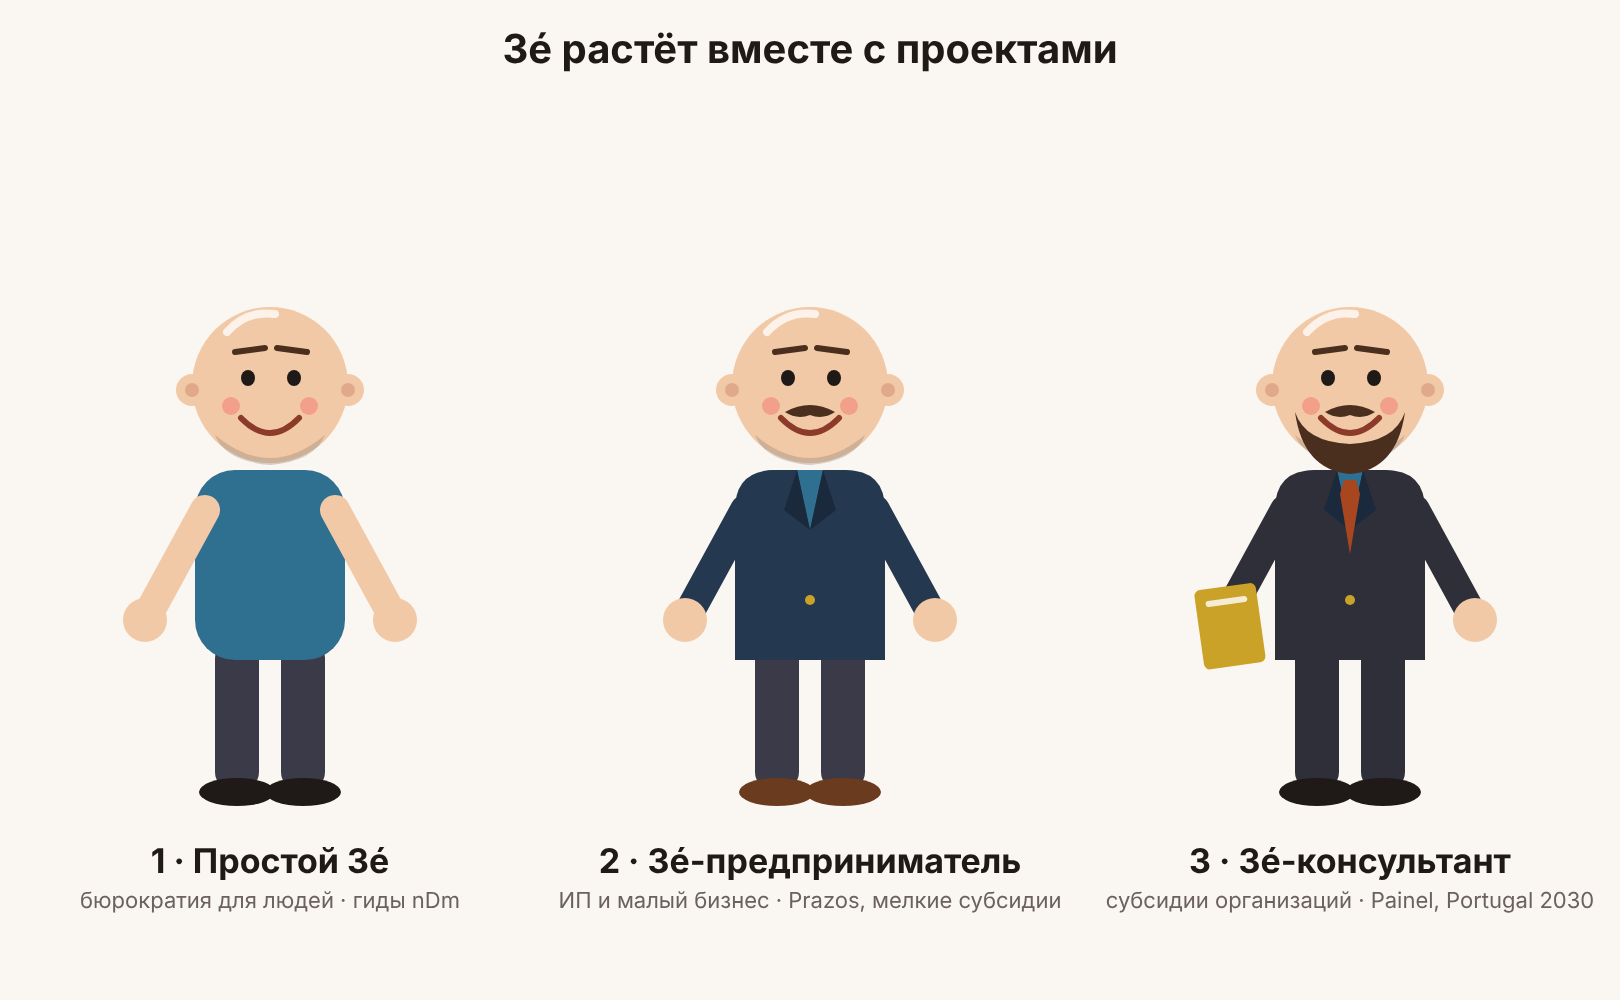
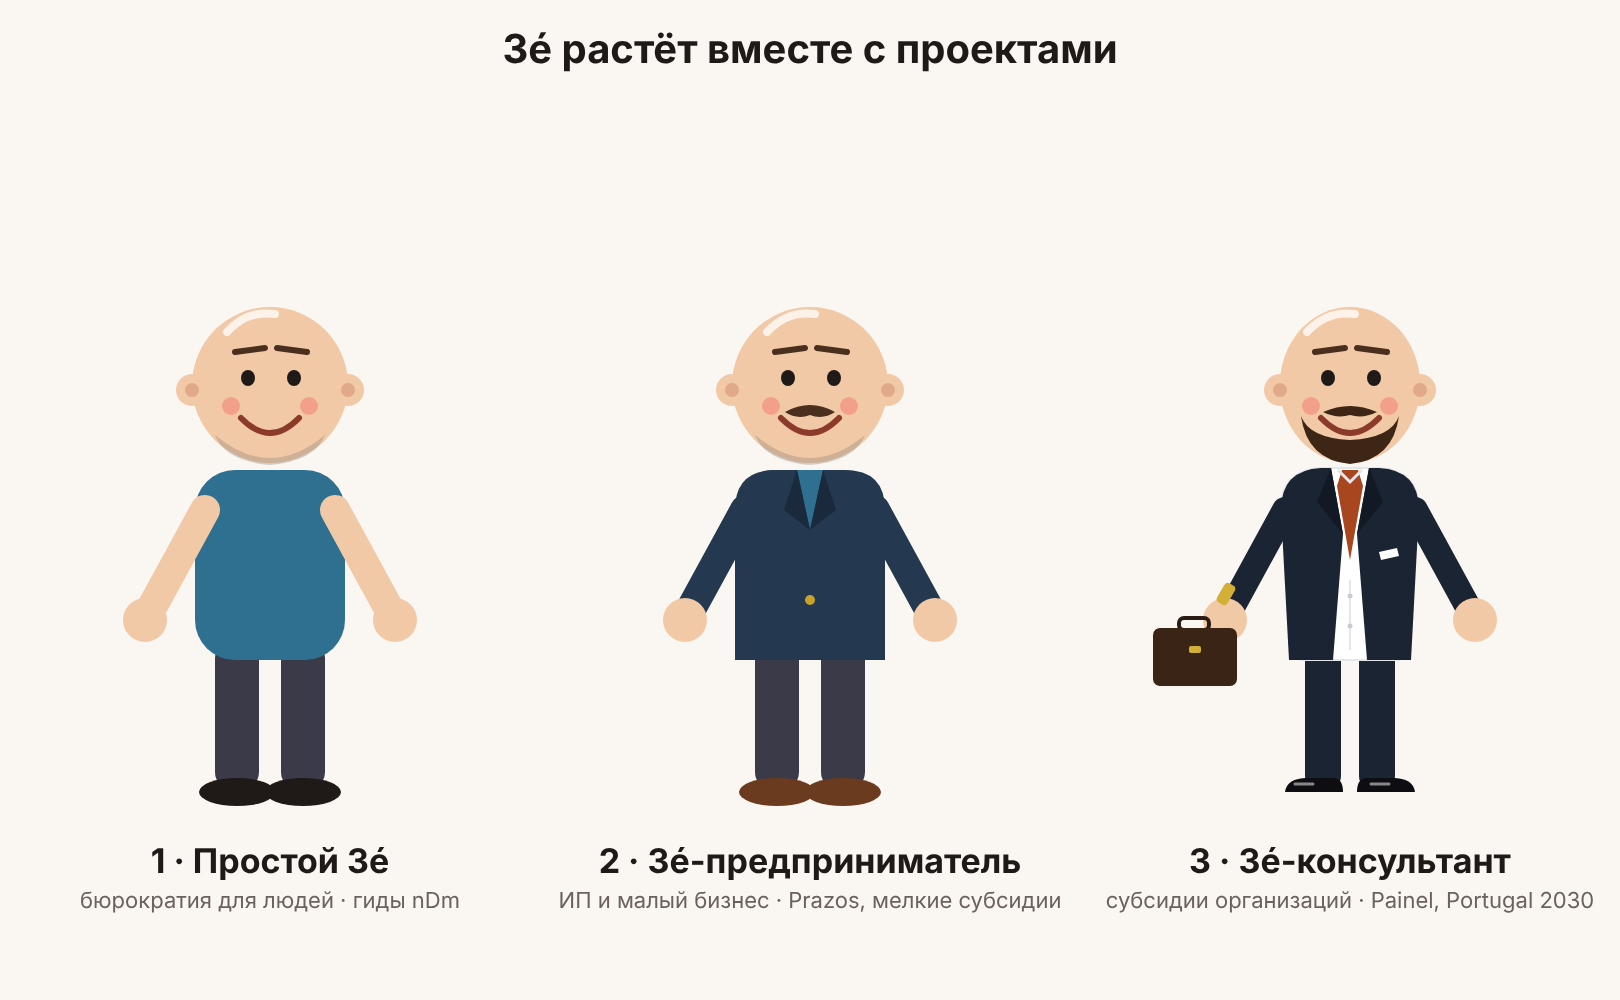
media/_ze: уровень 3 — Зé-банкир (похудел, белая рубашка, приталенный костюм, часы, кейс)
Claude-Session: https://claude.ai/code/session_01VKHYpiBB6nGXYyFz8gADSN

Changed region(s): [[0.7099, 0.341, 0.8951, 0.806]]

diff --git a/_src/media/_ze/looks.html b/_src/media/_ze/looks.html
@@ -48,26 +48,67 @@ txt(puff,282,404,'?',{'font-size':30,fill:'var(--acc)','font-weight':700});
 
 
 
+// Гардероб Зé: уровень образа по уровню проекта (принято 08.11.2026, паспорт Зé в Notion).
+// Вставлять в scene.html ПОСЛЕ блока «hero Zé» (нужны переменные manRoot, legs, armL, armR) и вызвать zeLook(N).
+// 1 — Простой Зé: рубашка #2F6F8F, без растительности (бюрократия для людей, гиды nDm).
+// 2 — Зé-предприниматель: тёмно-синий блейзер, аккуратные усы, коричневые туфли (ИП, малый бизнес, Prazos).
+// 3 — Зé-консультант / банкир: похудел и подкачался, белая рубашка, приталенный костюм, часы, кейс
+//     (субсидии организаций: Painel de Apoios, Portugal 2030, Funcionamento).
+function zeLook(level){
+  if(level<2) return;
+  if(level>=3) return zeBanker();
+  const JK='#24384F';
+  const jk=el('g',{},manRoot); manRoot.insertBefore(jk,armL);
+  el('path',{d:'M140 470 q0 -40 40 -40 h22 l13 60 l13 -60 h22 q40 0 40 40 v150 h-150z',fill:JK},jk);
+  el('path',{d:'M202 430 l13 60 l-26 -20z M228 430 l-13 60 l26 -20z',fill:'#1A2A3C'},jk);
+  el('circle',{cx:215,cy:560,r:5,fill:'#C9A227'},jk);
+  armL.querySelector('path').setAttribute('stroke',JK); armR.querySelector('path').setAttribute('stroke',JK);
+  el('path',{d:'M190 372 q25 -14 50 0 q-12 8 -25 3 q-13 5 -25 -3z',fill:'#4A2E1E'},manRoot);   // усы
+  legs.querySelectorAll('ellipse').forEach(e=>e.setAttribute('fill','#6B3B1F'));             // коричневые туфли
+}
+// 3 — Зé-консультант / банкир: похудел и подкачался (V-силуэт, без второго подбородка),
+// белая рубашка, приталенный тёмно-синий костюм, галстук цвета акцента, платок в кармане,
+// золотые часы, короткая ухоженная борода, чёрные лакированные туфли, тонкий кейс.
+function zeBanker(){
+  const SUIT='#1B2433', SUIT2='#121925';
+  // убрать «второй подбородок» и старое туловище
+  manRoot.querySelectorAll('path').forEach(p=>{if(p.getAttribute('opacity')==='0.35'||p.getAttribute('opacity')==='.35')p.remove()});
+  manRoot.querySelectorAll('rect').forEach(r=>{if(r.getAttribute('fill')==='var(--teal)')r.remove()});
+  // ноги стройнее, костюмные брюки, лакированные туфли
+  legs.innerHTML='';
+  el('rect',{x:170,y:600,width:36,height:150,rx:14,fill:SUIT},legs); el('rect',{x:224,y:600,width:36,height:150,rx:14,fill:SUIT},legs);
+  el('path',{d:'M150 752 q2 -14 22 -14 h26 q10 0 10 14z M222 752 q0 -14 10 -14 h26 q20 0 22 14z',fill:'#0E0E12'},legs);
+  el('path',{d:'M160 744 h18 M236 744 h18',stroke:'#fff','stroke-width':3,'stroke-linecap':'round',opacity:.5},legs);
+  const body=el('g',{},manRoot); manRoot.insertBefore(body,armL);
+  // белая рубашка, V-силуэт: широкие плечи, узкая талия
+  el('path',{d:'M146 470 q0 -40 40 -42 h58 q40 2 40 42 l-20 150 h-98z',fill:'#FFFFFF',stroke:'#E3E6EA','stroke-width':2},body);
+  // пиджак: две полы, открытая грудь
+  el('path',{d:'M146 470 q0 -40 40 -42 h10 l12 66 l-10 126 h-44z',fill:SUIT},body);
+  el('path',{d:'M284 470 q0 -40 -40 -42 h-10 l-12 66 l10 126 h44z',fill:SUIT},body);
+  el('path',{d:'M196 428 l12 66 l-26 -32z M234 428 l-12 66 l26 -32z',fill:SUIT2},body);          // лацканы
+  el('path',{d:'M215 540 v70',stroke:'#E3E6EA','stroke-width':2},body); el('circle',{cx:215,cy:556,r:2.5,fill:'#C9CDD3'},body); el('circle',{cx:215,cy:586,r:2.5,fill:'#C9CDD3'},body); // пуговицы рубашки
+  el('path',{d:'M207 430 h16 l5 16 l-13 74 l-13 -74z',fill:'var(--acc)'},body);                  // галстук
+  el('path',{d:'M203 430 l12 12 l12 -12',fill:'none',stroke:'#E3E6EA','stroke-width':3},body);  // воротник
+  el('path',{d:'M244 512 l18 -4 l2 8 l-18 4z',fill:'#FFFFFF'},body);                             // платок в кармане
+  // лицо стройнее: голова чуть уже, уши ближе
+  manRoot.querySelectorAll('circle').forEach(c=>{const cx=+c.getAttribute('cx'),cy=+c.getAttribute('cy'),r=+c.getAttribute('r');
+    if(cx===215&&cy===345&&r===78)c.setAttribute('transform','translate(215 345) scale(0.9 1) translate(-215 -345)');
+    if(cy===350&&(cx===137||cx===293))c.setAttribute('cx',cx===137?145:285);});
+  // руки в рукавах костюма, тоньше; золотые часы на левом запястье
+  [armL,armR].forEach(a=>{const p=a.querySelector('path');p.setAttribute('stroke',SUIT);p.setAttribute('stroke-width',26);});
+  el('rect',{x:80,y:548,width:22,height:12,rx:4,fill:'#D4AF37',transform:'rotate(-60 91 554)'},armL);
+  // короткая ухоженная борода + усы
+  el('path',{d:'M166 376 q6 44 49 48 q43 -4 49 -48 q-8 22 -49 24 q-41 -2 -49 -24z',fill:'#3E2617'},manRoot);
+  el('path',{d:'M188 372 q27 -12 54 0 q-14 7 -27 3 q-13 4 -27 -3z',fill:'#3E2617'},manRoot);
+  // тонкий кожаный кейс
+  const bc=el('g',{transform:'translate(58 584)'},armL);
+  el('rect',{x:-14,y:-6,width:30,height:12,rx:5,fill:'none',stroke:'#2A1C14','stroke-width':4},bc);
+  el('rect',{x:-40,y:4,width:84,height:58,rx:7,fill:'#3A2416'},bc);
+  el('rect',{x:-4,y:22,width:12,height:7,rx:2,fill:'#D4AF37'},bc);
+}
+
  mouth.setAttribute('d','M186 378 q29 30 58 0'); cheekL.setAttribute('opacity',1); cheekR.setAttribute('opacity',1);
- if(level>=2){ // тёмно-синий блейзер поверх рубашки, лацканы, коричневые туфли, аккуратные усы
-   const jk=el('g',{},manRoot); manRoot.insertBefore(jk,armL);
-   el('path',{d:'M140 470 q0 -40 40 -40 h22 l13 60 l13 -60 h22 q40 0 40 40 v150 h-150z',fill:'#24384F'},jk);
-   el('path',{d:'M202 430 l13 60 l-26 -20z M228 430 l-13 60 l26 -20z',fill:'#1A2A3C'},jk);
-   el('circle',{cx:215,cy:560,r:5,fill:'#C9A227'},jk);
-   el('path',{d:'M190 372 q25 -14 50 0 q-12 8 -25 3 q-13 5 -25 -3z',fill:'#4A2E1E'},manRoot);
-   legs.querySelectorAll('ellipse').forEach(e=>e.setAttribute('fill','#6B3B1F'));
-   armL.querySelector('path').setAttribute('stroke','#24384F'); armR.querySelector('path').setAttribute('stroke','#24384F');
- }
- if(level>=3){ // костюм графит, галстук, бородка из барбершопа, папка с документами
-   manRoot.querySelectorAll('path').forEach(p=>{if(p.getAttribute('fill')==='#24384F')p.setAttribute('fill','#2E2F38')});
-   armL.querySelector('path').setAttribute('stroke','#2E2F38'); armR.querySelector('path').setAttribute('stroke','#2E2F38');
-   legs.querySelectorAll('rect').forEach(e=>e.setAttribute('fill','#2E2F38'));
-   legs.querySelectorAll('ellipse').forEach(e=>e.setAttribute('fill','#1F1A17'));
-   el('path',{d:'M209 440 h12 l4 14 l-10 60 l-10 -60z',fill:'var(--acc)'},manRoot);
-   el('path',{d:'M160 372 q8 58 55 62 q47 -4 55 -62 q-10 30 -55 32 q-45 -2 -55 -32z',fill:'#4A2E1E'},manRoot);
-   const fol=el('g',{transform:'translate(66 560) rotate(-8)'},armL);
-   el('rect',{x:-6,y:-10,width:62,height:80,rx:6,fill:'#C9A227'},fol); el('rect',{x:4,y:2,width:42,height:6,rx:3,fill:'#fff',opacity:.8},fol);
- }
+ zeLook(level);
 }
 makeZe(55,1); makeZe(595,2); makeZe(1135,3);
 </script></body></html>

diff --git a/_src/media/_ze/wardrobe.js b/_src/media/_ze/wardrobe.js
@@ -2,24 +2,57 @@
 // Вставлять в scene.html ПОСЛЕ блока «hero Zé» (нужны переменные manRoot, legs, armL, armR) и вызвать zeLook(N).
 // 1 — Простой Зé: рубашка #2F6F8F, без растительности (бюрократия для людей, гиды nDm).
 // 2 — Зé-предприниматель: тёмно-синий блейзер, аккуратные усы, коричневые туфли (ИП, малый бизнес, Prazos).
-// 3 — Зé-консультант: графитовый костюм, галстук цвета акцента серии, бородка из барбершопа, золотая папка
+// 3 — Зé-консультант / банкир: похудел и подкачался, белая рубашка, приталенный костюм, часы, кейс
 //     (субсидии организаций: Painel de Apoios, Portugal 2030, Funcionamento).
 function zeLook(level){
   if(level<2) return;
-  const JK=level>=3?'#2E2F38':'#24384F';
+  if(level>=3) return zeBanker();
+  const JK='#24384F';
   const jk=el('g',{},manRoot); manRoot.insertBefore(jk,armL);
   el('path',{d:'M140 470 q0 -40 40 -40 h22 l13 60 l13 -60 h22 q40 0 40 40 v150 h-150z',fill:JK},jk);
   el('path',{d:'M202 430 l13 60 l-26 -20z M228 430 l-13 60 l26 -20z',fill:'#1A2A3C'},jk);
   el('circle',{cx:215,cy:560,r:5,fill:'#C9A227'},jk);
   armL.querySelector('path').setAttribute('stroke',JK); armR.querySelector('path').setAttribute('stroke',JK);
-  if(level===2){
-    el('path',{d:'M190 372 q25 -14 50 0 q-12 8 -25 3 q-13 5 -25 -3z',fill:'#4A2E1E'},manRoot);   // усы
-    legs.querySelectorAll('ellipse').forEach(e=>e.setAttribute('fill','#6B3B1F'));             // коричневые туфли
-  } else {
-    legs.querySelectorAll('rect').forEach(e=>e.setAttribute('fill',JK));                        // брюки костюма
-    el('path',{d:'M209 440 h12 l4 14 l-10 60 l-10 -60z',fill:'var(--acc)'},manRoot);            // галстук
-    el('path',{d:'M160 372 q8 58 55 62 q47 -4 55 -62 q-10 30 -55 32 q-45 -2 -55 -32z',fill:'#4A2E1E'},manRoot); // бородка
-    const fol=el('g',{transform:'translate(66 560) rotate(-8)'},armL);                          // папка с документами
-    el('rect',{x:-6,y:-10,width:62,height:80,rx:6,fill:'#C9A227'},fol); el('rect',{x:4,y:2,width:42,height:6,rx:3,fill:'#fff',opacity:.8},fol);
-  }
+  el('path',{d:'M190 372 q25 -14 50 0 q-12 8 -25 3 q-13 5 -25 -3z',fill:'#4A2E1E'},manRoot);   // усы
+  legs.querySelectorAll('ellipse').forEach(e=>e.setAttribute('fill','#6B3B1F'));             // коричневые туфли
+}
+// 3 — Зé-консультант / банкир: похудел и подкачался (V-силуэт, без второго подбородка),
+// белая рубашка, приталенный тёмно-синий костюм, галстук цвета акцента, платок в кармане,
+// золотые часы, короткая ухоженная борода, чёрные лакированные туфли, тонкий кейс.
+function zeBanker(){
+  const SUIT='#1B2433', SUIT2='#121925';
+  // убрать «второй подбородок» и старое туловище
+  manRoot.querySelectorAll('path').forEach(p=>{if(p.getAttribute('opacity')==='0.35'||p.getAttribute('opacity')==='.35')p.remove()});
+  manRoot.querySelectorAll('rect').forEach(r=>{if(r.getAttribute('fill')==='var(--teal)')r.remove()});
+  // ноги стройнее, костюмные брюки, лакированные туфли
+  legs.innerHTML='';
+  el('rect',{x:170,y:600,width:36,height:150,rx:14,fill:SUIT},legs); el('rect',{x:224,y:600,width:36,height:150,rx:14,fill:SUIT},legs);
+  el('path',{d:'M150 752 q2 -14 22 -14 h26 q10 0 10 14z M222 752 q0 -14 10 -14 h26 q20 0 22 14z',fill:'#0E0E12'},legs);
+  el('path',{d:'M160 744 h18 M236 744 h18',stroke:'#fff','stroke-width':3,'stroke-linecap':'round',opacity:.5},legs);
+  const body=el('g',{},manRoot); manRoot.insertBefore(body,armL);
+  // белая рубашка, V-силуэт: широкие плечи, узкая талия
+  el('path',{d:'M146 470 q0 -40 40 -42 h58 q40 2 40 42 l-20 150 h-98z',fill:'#FFFFFF',stroke:'#E3E6EA','stroke-width':2},body);
+  // пиджак: две полы, открытая грудь
+  el('path',{d:'M146 470 q0 -40 40 -42 h10 l12 66 l-10 126 h-44z',fill:SUIT},body);
+  el('path',{d:'M284 470 q0 -40 -40 -42 h-10 l-12 66 l10 126 h44z',fill:SUIT},body);
+  el('path',{d:'M196 428 l12 66 l-26 -32z M234 428 l-12 66 l26 -32z',fill:SUIT2},body);          // лацканы
+  el('path',{d:'M215 540 v70',stroke:'#E3E6EA','stroke-width':2},body); el('circle',{cx:215,cy:556,r:2.5,fill:'#C9CDD3'},body); el('circle',{cx:215,cy:586,r:2.5,fill:'#C9CDD3'},body); // пуговицы рубашки
+  el('path',{d:'M207 430 h16 l5 16 l-13 74 l-13 -74z',fill:'var(--acc)'},body);                  // галстук
+  el('path',{d:'M203 430 l12 12 l12 -12',fill:'none',stroke:'#E3E6EA','stroke-width':3},body);  // воротник
+  el('path',{d:'M244 512 l18 -4 l2 8 l-18 4z',fill:'#FFFFFF'},body);                             // платок в кармане
+  // лицо стройнее: голова чуть уже, уши ближе
+  manRoot.querySelectorAll('circle').forEach(c=>{const cx=+c.getAttribute('cx'),cy=+c.getAttribute('cy'),r=+c.getAttribute('r');
+    if(cx===215&&cy===345&&r===78)c.setAttribute('transform','translate(215 345) scale(0.9 1) translate(-215 -345)');
+    if(cy===350&&(cx===137||cx===293))c.setAttribute('cx',cx===137?145:285);});
+  // руки в рукавах костюма, тоньше; золотые часы на левом запястье
+  [armL,armR].forEach(a=>{const p=a.querySelector('path');p.setAttribute('stroke',SUIT);p.setAttribute('stroke-width',26);});
+  el('rect',{x:80,y:548,width:22,height:12,rx:4,fill:'#D4AF37',transform:'rotate(-60 91 554)'},armL);
+  // короткая ухоженная борода + усы
+  el('path',{d:'M166 376 q6 44 49 48 q43 -4 49 -48 q-8 22 -49 24 q-41 -2 -49 -24z',fill:'#3E2617'},manRoot);
+  el('path',{d:'M188 372 q27 -12 54 0 q-14 7 -27 3 q-13 4 -27 -3z',fill:'#3E2617'},manRoot);
+  // тонкий кожаный кейс
+  const bc=el('g',{transform:'translate(58 584)'},armL);
+  el('rect',{x:-14,y:-6,width:30,height:12,rx:5,fill:'none',stroke:'#2A1C14','stroke-width':4},bc);
+  el('rect',{x:-40,y:4,width:84,height:58,rx:7,fill:'#3A2416'},bc);
+  el('rect',{x:-4,y:22,width:12,height:7,rx:2,fill:'#D4AF37'},bc);
 }
